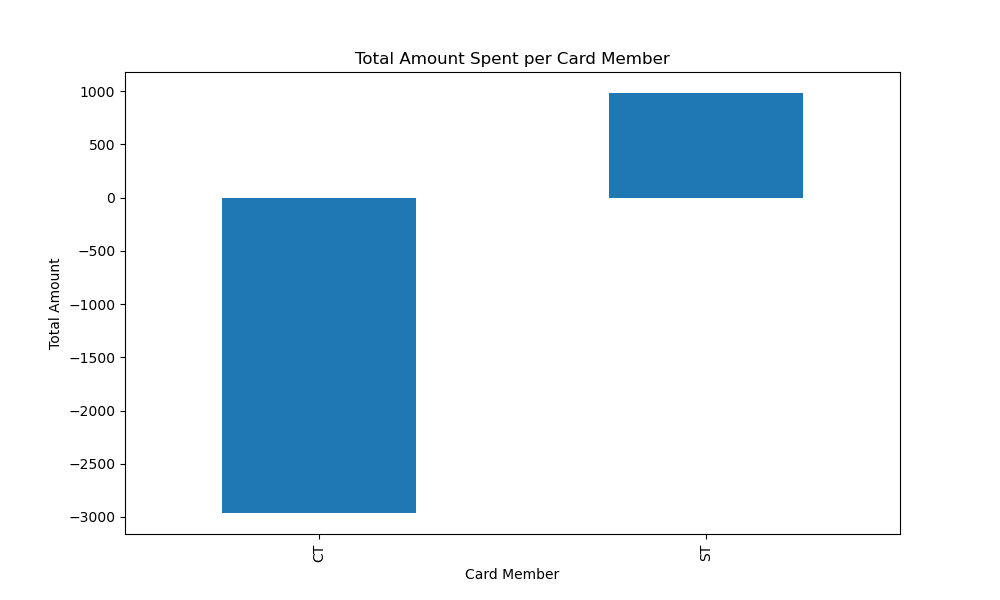
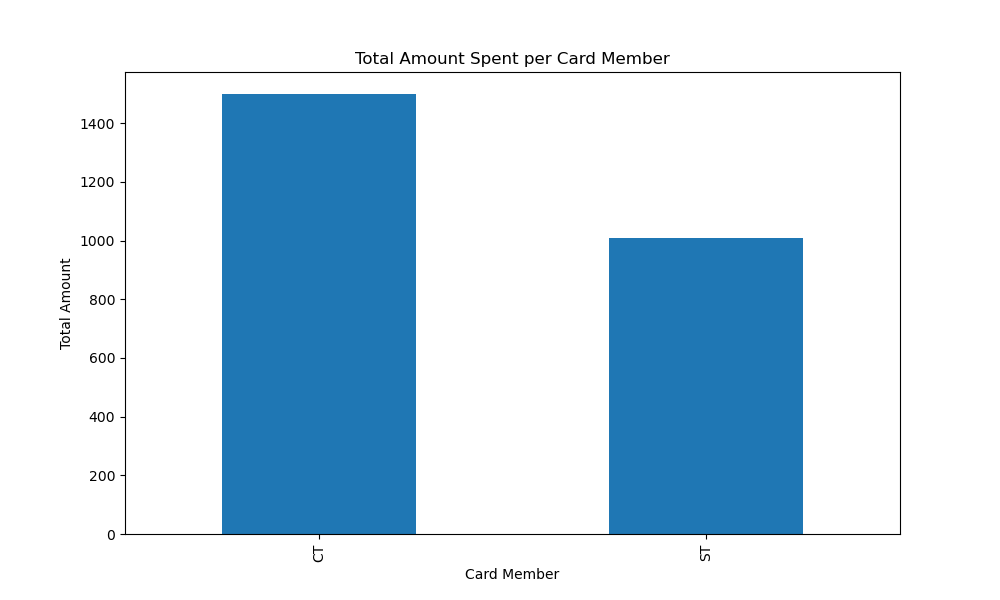
removed the negative values

diff --git a/test/plots.py b/test/plots.py
@@ -50,9 +50,6 @@ plt.savefig('../plots/line_amt_cat.png')
 
 
 # Scatter Plot 
-# Convert 'Amount' column to string
-df['Amount_Str'] = df['Amount'].astype(str)
-
 # Assign numeric values to categories
 category_values = np.arange(len(df['Category'].unique()))
 category_mapping = {category: value for value, category in enumerate(df['Category'].unique())}
@@ -62,7 +59,7 @@ df['Category_Num'] = df['Category'].map(category_mapping)
 colors = np.where(df['Card Member'] == 'Member A', 'red', 'blue')
 
 plt.figure(figsize=(12, 12))
-plt.scatter(df['Category_Num'], df['Amount_Str'], c=colors)
+plt.scatter(df['Category_Num'], df['Amount'], c=colors)
 plt.xlabel('Category')
 plt.ylabel('Amount')
 plt.title('Amount vs. Category')

diff --git a/data/formatted_data.py b/data/formatted_data.py
@@ -22,6 +22,9 @@ df['Card Member'] = df['Card Member'].str.split().apply(lambda x: ''.join([word[
  # description too long, shorten it to the first three words
 df['Description'] = df['Description'].str.split().apply(lambda x: ' '.join(x[:3]))
 
+# lets remove any payments or credit which would come up as negative 
+df['Amount'] = df['Amount'].apply(lambda x: x if x > 0 else 0)
+
 
 #save as a new formatted csv file
 df.to_csv('formatted_activity.csv', index=False)
